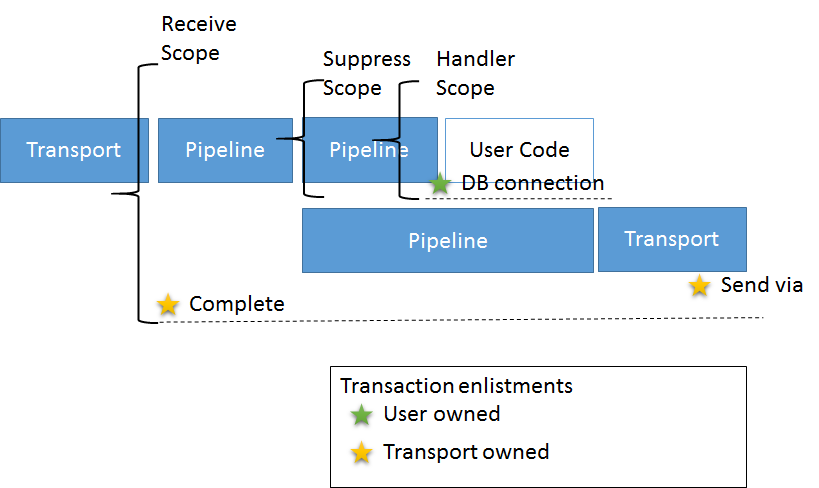
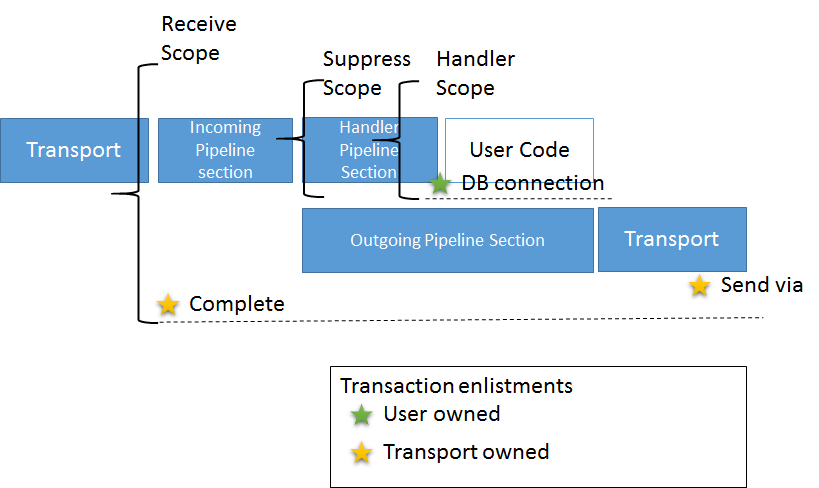
changed the names of the pipeline sections

Changed region(s): [[0.4274, 0.4611, 0.6716, 0.5225], [0.2137, 0.2459, 0.3358, 0.3689], [0.3968, 0.2459, 0.5189, 0.3689]]

diff --git a/nservicebus/azure-service-bus/understanding-transactions-and-delivery-guarantees_desc_asb_[7,).partial.md b/nservicebus/azure-service-bus/understanding-transactions-and-delivery-guarantees_desc_asb_[7,).partial.md
@@ -9,17 +9,17 @@ The new architecture for `SendAtomicWithReceive` is schematically represented in
 ![Transactions v7](transactions-v7.png)
 
 As illustrated in the diagram, the NServiceBus pipeline consists of 3 major parts:
-* The receive section, which is invoked by the transport
+* The incoming pipeline section, which is invoked by the transport whenever a message is received.
 * The handler invocation section responsible for invoking the implementations of `IHandleMessages`.
-* And finally the dispatch section, responsible for sending out messages through the transport.
+* And finally the outgoing section, responsible for sending out messages through the transport.
 
-Note that the pipeline is not straight, there is a [fork in the pipeline](/nservicebus/pipeline/steps-stages-connectors.md) that is separating the user code invocation path from the dispatching path. Dispatching only happens after the handler invocation section has returned, and all implementations of `IHandleMessages` have been executed.
+Note that the pipeline is not straight, there is a [fork in the pipeline](/nservicebus/pipeline/steps-stages-connectors.md) that is separating the handler invocation path from the outgoing path. Dispatching only happens after the handler invocation section has returned, and all implementations of `IHandleMessages` have been executed.
 
-This is important as it allows the transport to flow it's transaction scope from the receive section to the dispatch section. While at the same time it can prevent that scope from promoting the handler scope by putting a suppress scope around that section of the pipeline.
+This is important, as it allows the transport to flow it's transaction scope from the incoming section to the outgoing section. While at the same time it can prevent the receive scope from promoting the handler scope by putting a suppress scope around the handler invocation section of the pipeline.
 
-Flowing the receive scope into the dispatch section is a requirement to allow the Azure Service Bus transport to take advantage of, a little-known capability of the Azure Service Bus SDK, [the via entity path / transfer queue](https://github.com/Azure-Samples/azure-servicebus-messaging-samples/tree/master/AtomicTransactions). 
+Flowing the receive scope into the outgoing section is a requirement to allow the Azure Service Bus transport to take advantage of, a little-known capability of the Azure Service Bus SDK, [the via entity path / transfer queue](https://github.com/Azure-Samples/azure-servicebus-messaging-samples/tree/master/AtomicTransactions). 
 
-Using this feature, send operations to different Azure Service Bus entities can be executed via a single entity, usually the receive queue and be completed in a single operation together with the acknowledgment that the receive operation has completed.  
+Using this feature, send operations to different Azure Service Bus entities can be executed via a single entity, usually the receive queue, and be completed in a single operation together with the acknowledgment that the receive operation has completed.  
 
 Schematically it works like this:
 
